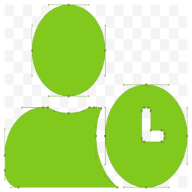
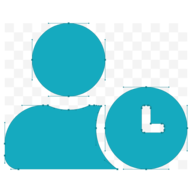
- Fix favico location and styling

diff --git a/public/index.html b/public/index.html
@@ -2,12 +2,13 @@
 <html lang="en">
   <head>
     <meta charset="utf-8" />
-    <link rel="icon" href="%PUBLIC_URL%/favicon.ico" />
-    <meta name="viewport" content="width=device-width, initial-scale=1" />
-    <meta name="theme-color" content="#000000" />
+    <link rel="apple-touch-icon" sizes="180x180" href="%PUBLIC_URL%/apple-touch-icon.png">
+    <link rel="icon" type="image/png" href="%PUBLIC_URL%/favicon-32x32.png" sizes="32x32">
+    <link rel="icon" type="image/png" href="%PUBLIC_URL%/favicon-16x16.png" sizes="16x16">
+    <link rel="mask-icon" href="%PUBLIC_URL%/safari-pinned-tab.svg" color="#5bbad5">
     <meta name="description" content="Time and activity tracking application">
-    <!-- <link rel="apple-touch-icon" href="logo192.png" /> -->
-    <link rel="apple-touch-icon" href="apple-touch-icon.png" />
+    <meta name="theme-color" content="#ffffff">
+    <meta name="viewport" content="width=device-width, initial-scale=1" />
     <!--
       manifest.json provides metadata used when your web app is installed on a
       user's mobile device or desktop. See https://developers.google.com/web/fundamentals/web-app-manifest/
